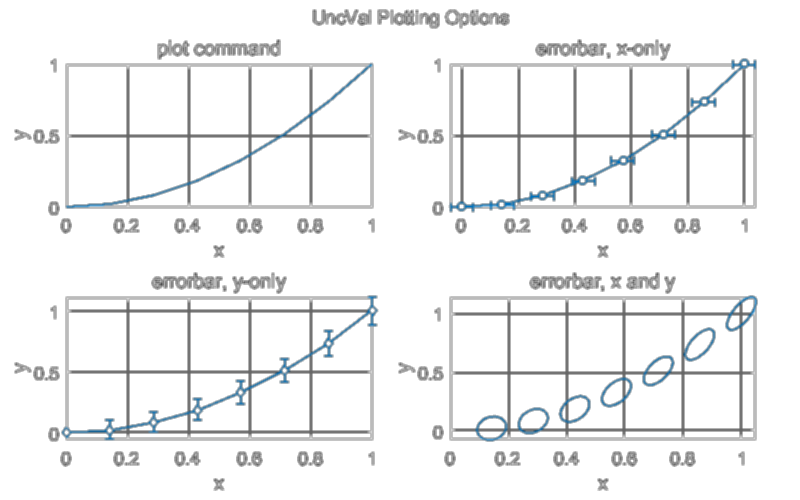
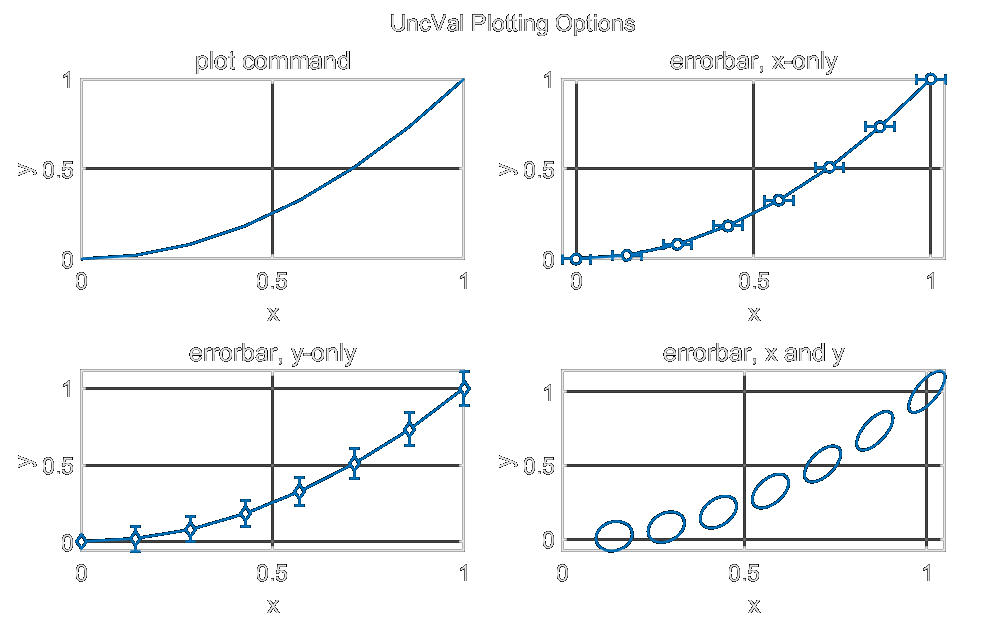
Generate readme figures locally. Poor quality images from github action runners

diff --git a/make_graphics.m b/make_graphics.m
@@ -1,5 +1,8 @@
 % make_graphics.m
 % makes graphics for readme file.
+close all
+clear
+clc
 
 x = UncVal(linspace(0, 1, 8), 0.02, "x");
 y = x.^2 + UncVal(0, 0.04, "y");
@@ -49,6 +52,7 @@ if ~exist("resources", "dir")
     mkdir("resources");
 end
 write_png(gcf, "resources/light.png");
+saveas(gcf, "resources/opaque.png");
 
 %% Make dark plot
 figure(Name="dark", ...
@@ -105,12 +109,6 @@ alpha = ones(size(a, [1, 2]));
 idx = all(a == cref, 3);
 alpha(idx) = 0;
 
-% smooth
-a = smooth3(a, "box", [3, 3, 1]);
-alpha2 = repmat(alpha, 1, 1, 3); % fake in a 3rd dimension
-alpha3 = smooth3(alpha2, "box", [3, 3, 1]);
-alpha4 = squeeze(alpha3(:, :, 1)); % remove fake dimension
-
-imwrite(a, filename, Alpha=alpha4);
+imwrite(a, filename, Alpha=alpha);
 
 end

diff --git a/README.md b/README.md
@@ -82,5 +82,5 @@ Correlated errors are plotted as ellipses.
 <picture>
   <source media="(prefers-color-scheme: dark)" srcset="resources/dark.png">
   <source media="(prefers-color-scheme: light)" srcset="resources/light.png">
-  <img alt="Example plot with error bars." src="resources/light.png">
+  <img alt="Example plot with error bars." src="resources/opaque.png">
 </picture>
